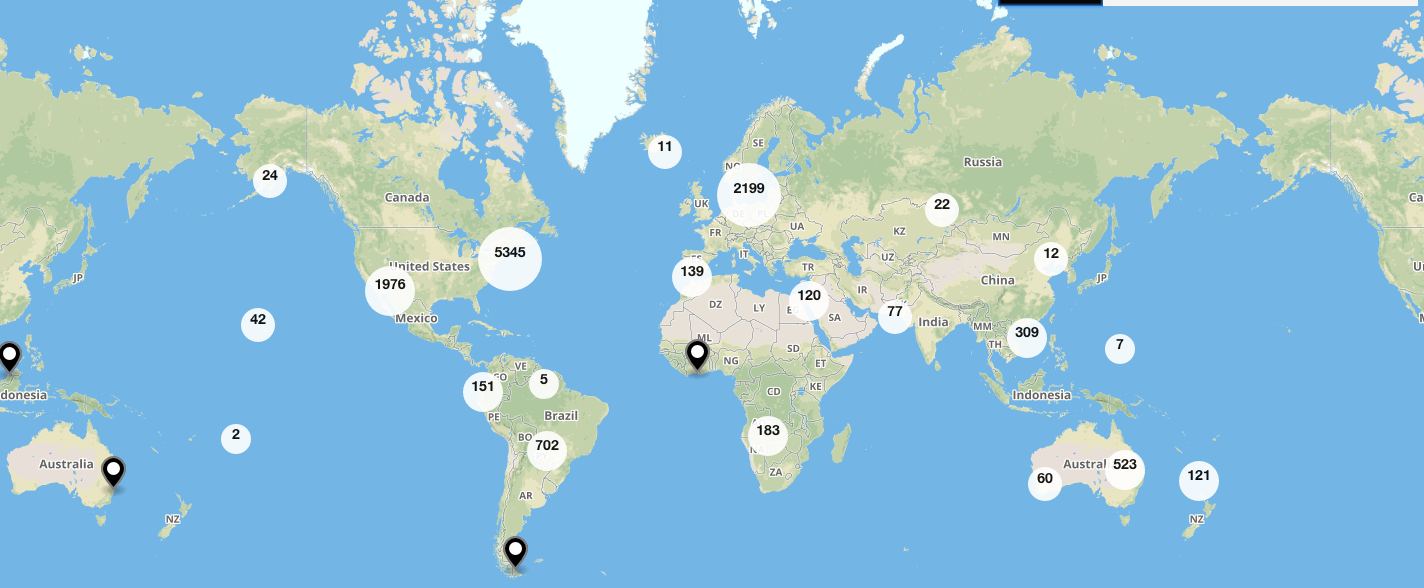
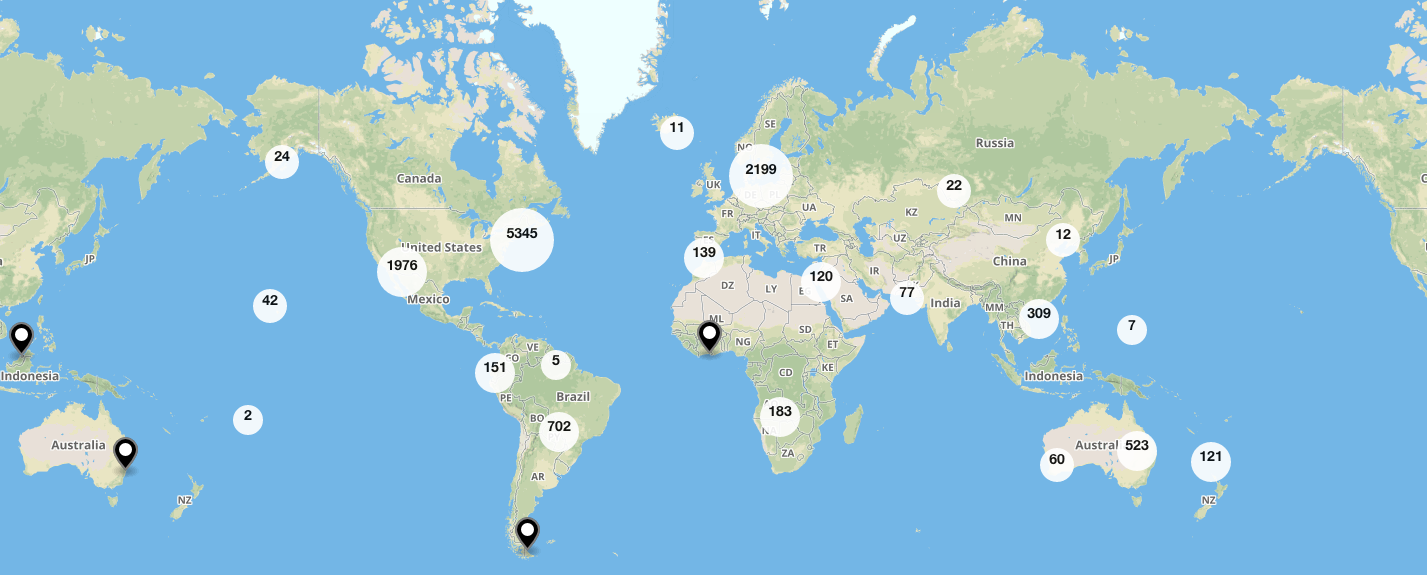
Fourth change

diff --git a/index3.html b/index3.html
@@ -47,7 +47,7 @@
 
   <div id="1">
   <div class="container">
-    <div class="section center">
+    <div class="section center about-affiliation">
       <h4>ABOUT AFFILIATION</h4>
 
             <p class="left-align light">From the beginning, the CrossFit movement has provided an alternative to the prevailing commercial gym establishment and its signature "big-box," machine-based, bodybuilding approach to fitness.</p>
@@ -80,7 +80,7 @@
               Once you are affiliated, you will need to have a live website before we will be able to link you on the CrossFit site. This is our primary vehicle for promoting you; therefore, we expect you maintain a good site. Please do not register a domain with the CrossFit name in it until after your affiliate application has been approved; CrossFit is a licensed trademark and its use without our prior permission is illegal. Please see Website Checklist for more detailed information.<br></p>
 
            <h4>AFFILIATE MAP</h4>
-          <img class="affiliate-map" src="maps3.png">
+          <img src="maps3.png">
 
 
 

diff --git a/css/style.css b/css/style.css
@@ -144,7 +144,8 @@ h5 .new-head{
 .affiliate-img img{
   width:100%;
 }
-.affiliate-map img{
-  width:10px;
+
+.about-affiliation img{
+  width:100%;
 }
 
